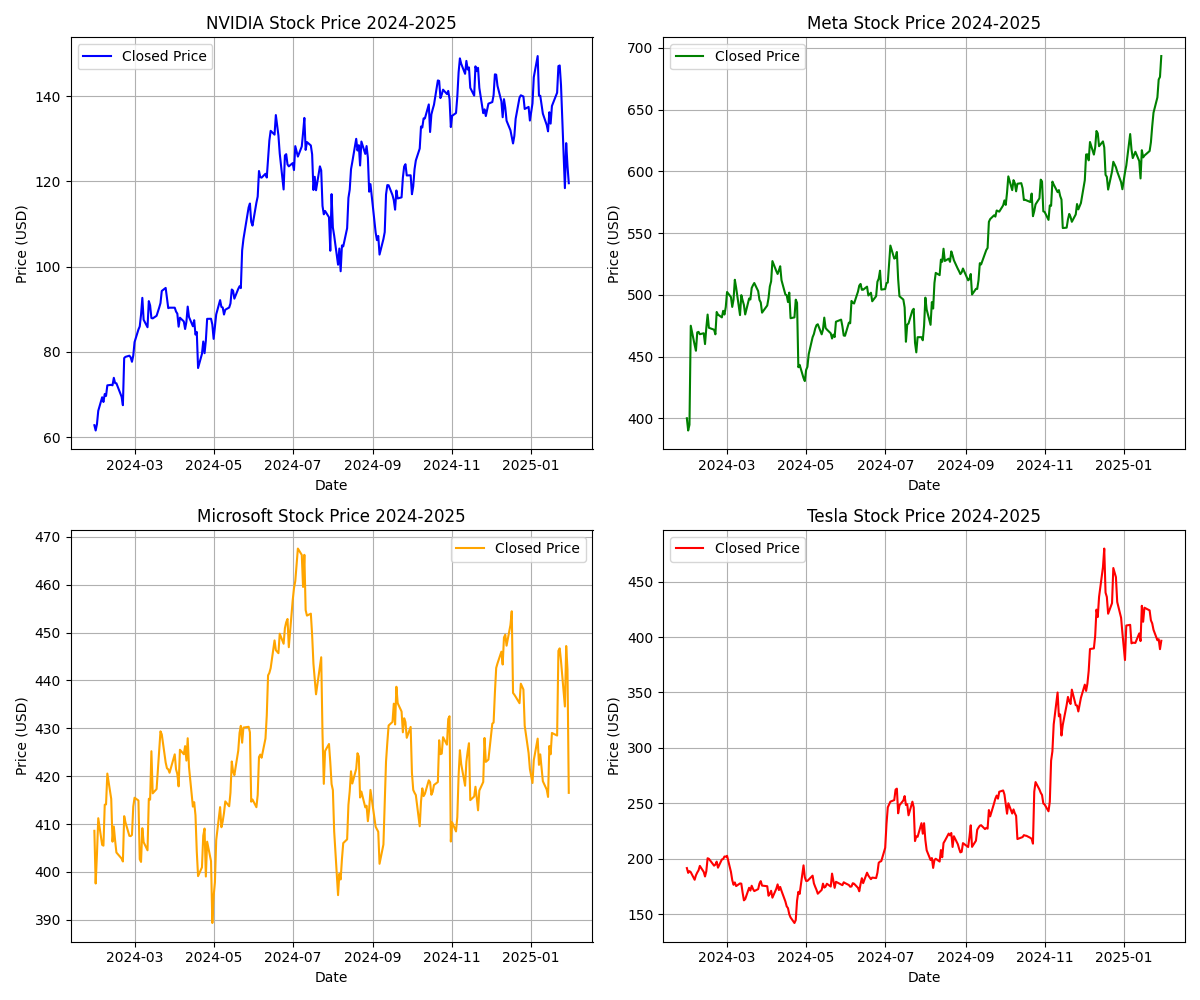
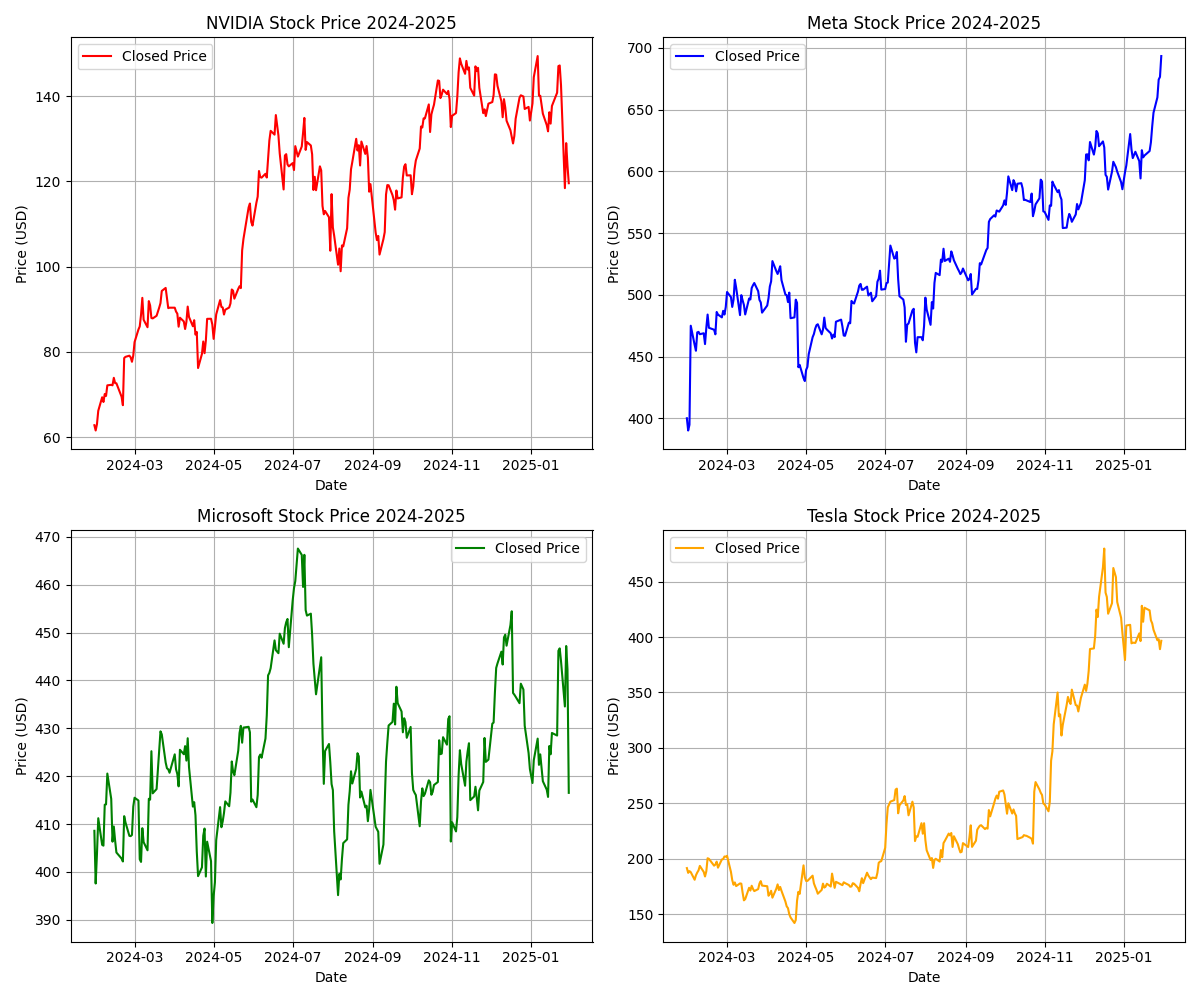
Plot update by using loop 2/6/2025

diff --git a/data_plot.py b/data_plot.py
@@ -1,67 +1,37 @@
-import numpy as np
-import os
-import pandas as pd
 import matplotlib.pyplot as plt
+import pandas as pd
+import os
+
 
 DIR = 'stockprice_data/'
-FILES_DATA = ['NVIDIA Stock Price History.csv', 'Meta Platforms Stock Price History.csv', ..]
+FILES_DATA = ['NVIDIA Stock Price History.csv', 'Meta Platforms Stock Price History.csv',
+              'Microsoft Stock Price History.csv','Tesla Stock Price History.csv' ]
+
+plot_data = []
 
 for file in FILES_DATA:
    price= pd.read_csv(os.path.join(DIR,file))
-
-# Read the csv file
-nvidia_price = pd.read_csv('stockprice_data/NVIDIA Stock Price History.csv')
-meta_price = pd.read_csv('stockprice_data/Meta Platforms Stock Price History.csv')
-microsoft_price = pd.read_csv('stockprice_data/Microsoft Stock Price History.csv')
-tesla_price = pd.read_csv('stockprice_data/Tesla Stock Price History.csv')
-
-# change the Date to the  proper formate
-nvidia_price['Date'] = pd.to_datetime(nvidia_price['Date'])
-meta_price['Date'] = pd.to_datetime(meta_price['Date'])
-microsoft_price['Date'] = pd.to_datetime(microsoft_price['Date'])
-tesla_price['Date'] = pd.to_datetime(tesla_price['Date'])
-
-#sort the date
-nvidia_price = nvidia_price.sort_values('Date')
-meta_price = meta_price.sort_values('Date')
-microsoft_price = microsoft_price.sort_values('Date')
-tesla_price = tesla_price.sort_values('Date')
+   price['Date'] = pd.to_datetime(price['Date'])
+   price = price.sort_values('Date')
+   COMPANY_NAME = file.split(' ')[0]
+   plot_data.append((COMPANY_NAME, price))
 
 # plot all four graph
 fig, axes = plt.subplots(2, 2, figsize=(12, 10))
 
-# NVIDIA
-axes[0, 0].plot(nvidia_price['Date'], nvidia_price['Price'], label='Closed Price', color='blue')
-axes[0, 0].set_title('NVIDIA Stock Price 2024-2025')
-axes[0, 0].set_xlabel('Date')
-axes[0, 0].set_ylabel('Price (USD)')
-axes[0, 0].legend()
-axes[0, 0].grid(True)
+axes_pos = [(0, 0), (0, 1), (1, 0), (1, 1)]
+color = ['red', 'blue', 'green', 'orange']
 
-# Meta
-axes[0, 1].plot(meta_price['Date'], meta_price['Price'], label='Closed Price', color='green')
-axes[0, 1].set_title('Meta Stock Price 2024-2025')
-axes[0, 1].set_xlabel('Date')
-axes[0, 1].set_ylabel('Price (USD)')
-axes[0, 1].legend()
-axes[0, 1].grid(True)
-
-# Microsoft
-axes[1, 0].plot(microsoft_price['Date'], microsoft_price['Price'], label='Closed Price', color='orange')
-axes[1, 0].set_title('Microsoft Stock Price 2024-2025')
-axes[1, 0].set_xlabel('Date')
-axes[1, 0].set_ylabel('Price (USD)')
-axes[1, 0].legend()
-axes[1, 0].grid(True)
-
-# Tesla
-axes[1, 1].plot(tesla_price['Date'], tesla_price['Price'], label='Closed Price', color='red')
-axes[1, 1].set_title('Tesla Stock Price 2024-2025')
-axes[1, 1].set_xlabel('Date')
-axes[1, 1].set_ylabel('Price (USD)')
-axes[1, 1].legend()
-axes[1, 1].grid(True)
+for idx,(COMPANY_NAME, price) in enumerate(plot_data):
+    row, col = axes_pos[idx]
+    ax = axes[row, col]
+    ax.plot(price['Date'], price['Price'], label='Closed Price',color=color[idx])
+    ax.set_title(f'{COMPANY_NAME} Stock Price 2024-2025')
+    ax.set_xlabel('Date')
+    ax.set_ylabel('Price (USD)')
+    ax.legend()
+    ax.grid(True)
 
 plt.tight_layout()
-plt.savefig('stock_price_plots.png')  # 可以自定义路径和文件名，例如 ''
+plt.savefig('stock_price_plots.png')
 plt.show()
